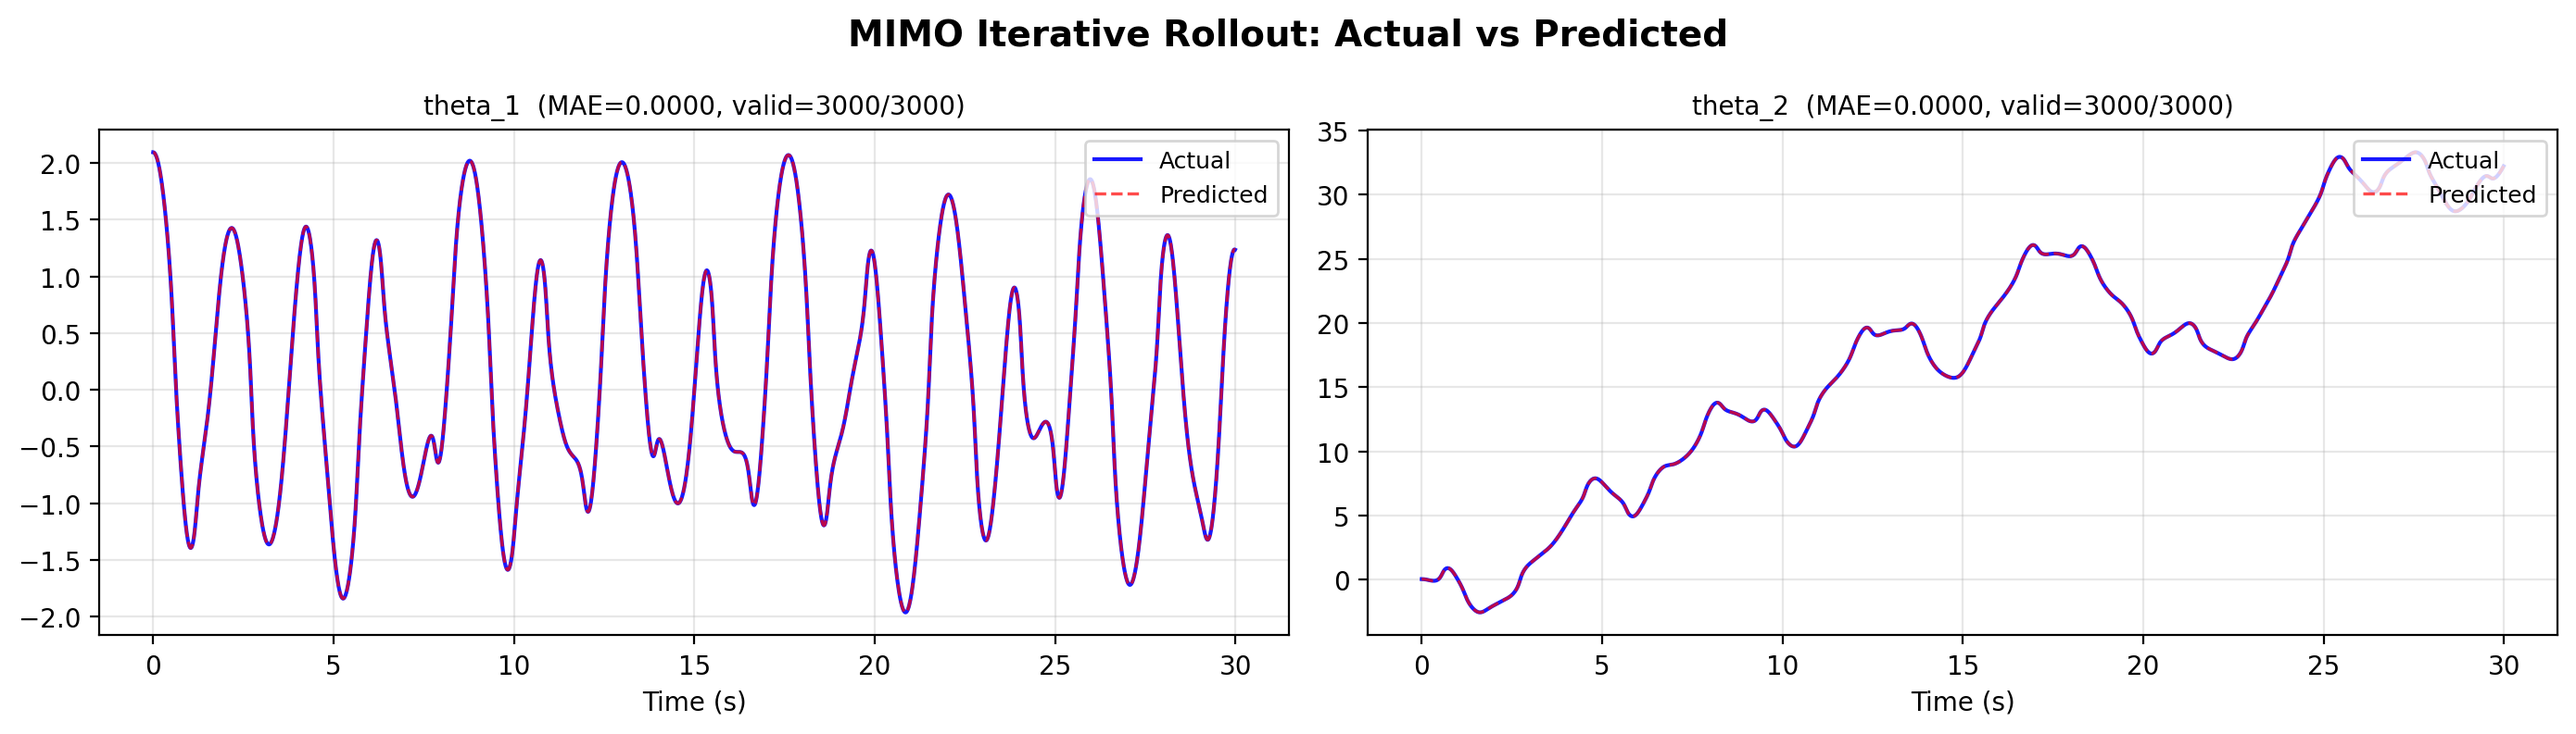
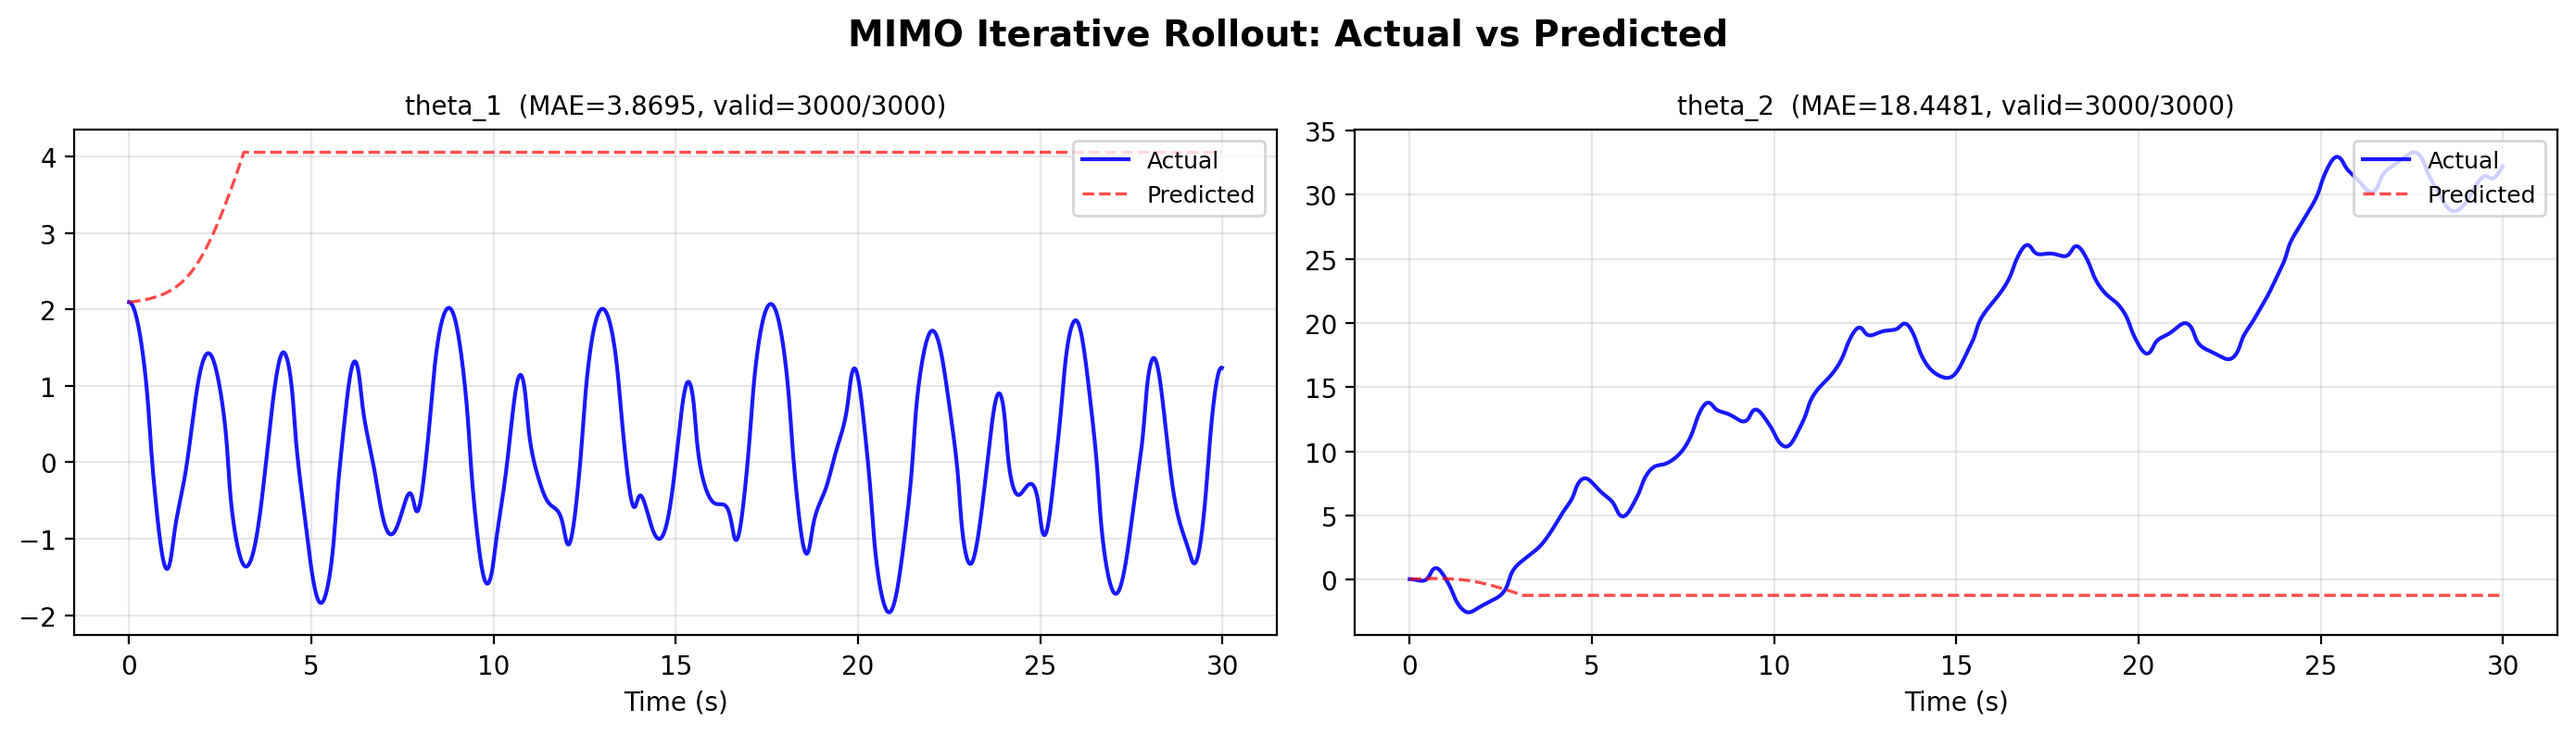
fix(analytical-dynamics): patch the rollout-evaluation bugs at the source
test_double_pendulum.py's run_iterative_prediction was called with the
entire actual test trajectory as its seed (not the initial condition),
so its accuracy check compared real data to a copy of itself, and the
genuinely-new predictions were silently NaN'd by a pandas column-
alignment mismatch between the predicted-delta columns and the full
state's omega columns -- misread by the divergence check as "diverged"
at exactly that boundary. Fixed by seeding with only the initial
condition, restricted to the regressor's own feature columns.

A second, independent bug affected every window_size>1 rollout: the
prediction call sliced the last window_size rows of an already-windowed
feature frame and predicted from all of them, then kept only the
stalest row's prediction while attaching it to the current state.
Fixed by predicting from exactly the single most recent row.

Re-ran the full n=2 test suite against the patch: matches the
independent re-measurement in N3_N5_FUZZY_REGRESSION_REPORT.md exactly
(theta_1 MAE=3.8695, R2=-13.8361), confirming both fixes agree.
Regenerated the dependent figures/GIFs and amended both reports in
place rather than leaving the earlier claim standing.

diff --git a/AnalyticalDynamics/test_double_pendulum.py b/AnalyticalDynamics/test_double_pendulum.py
@@ -192,7 +192,14 @@ def run_iterative_prediction(
                                       ignore_index=True)
         else:
             # Predict DELTAS so we can scale to preserve energy!
-            next_state_delta_df = regressor.predict(running_state[-window_size:])
+            # Exactly one row: for window_size>1, running_state's rows are
+            # already fully-windowed feature vectors (each row already
+            # encodes all window_size historical steps as columns), so only
+            # the single most recent row is a valid input -- slicing multiple
+            # rows here and then taking .iloc[0] of the output would use the
+            # *stalest* row's prediction while attaching it to the current
+            # state below, silently mixing two different points in time.
+            next_state_delta_df = regressor.predict(running_state.iloc[[-1]])
             if window_size == 1:
                 new_state = running_state.iloc[-1,:] + next_state_delta_df
             else:
@@ -632,9 +639,25 @@ class TestDoublePendulumFuzzyPrediction(unittest.TestCase):
             n_steps = len(tst_df) - ws
             print(f"\nWindow size {ws}: running {n_steps} iterative prediction steps...")
 
+            # Seed with ONLY the initial condition, restricted to OUTPUT_FEATURES --
+            # not the whole actual trajectory. Seeding with tst_df (as this used to
+            # do) meant the "prediction" for the first len(tst_df) rows was a
+            # verbatim copy of the ground truth (the accuracy check below only ever
+            # compares up to len(actual_trajectory) rows, all of them copied), and
+            # the omega_1/omega_2 columns tst_df carries but the regressor never
+            # predicts turned every genuinely-new row to NaN via pandas' Series+
+            # DataFrame column-alignment -- which the divergence check then read as
+            # "diverged" at exactly that boundary, not a real numerical blow-up.
+            # window_size=1 needs exactly 1 raw seed row; window_size>1 needs
+            # window_size+1 (get_mimo_df drops the newest possible window since it's
+            # designed for X/y training pairs, so the seed needs one extra row to
+            # yield the single window [0, ws-1] before rollout continues from there).
+            seed_rows = 1 if ws == 1 else ws + 1
+            seed_df = tst_df[OUTPUT_FEATURES].iloc[:seed_rows].reset_index(drop=True)
+
             with time_this(f'iterative-rollout-window{ws}'):
                 predicted_traj = run_iterative_prediction(
-                    mimo_results_by_window[ws]['regressor'], tst_df, n_steps, window_size=ws, verbose=False
+                    mimo_results_by_window[ws]['regressor'], seed_df, n_steps, window_size=ws, verbose=False
                 )
                 predicted_trajectories_by_window[ws] = predicted_traj
 

diff --git a/AnalyticalDynamics/DOUBLE_PENDULUM_REPORT.md b/AnalyticalDynamics/DOUBLE_PENDULUM_REPORT.md
@@ -223,29 +223,37 @@ points). Only $(\theta_1,\theta_2)$ are used as model inputs — velocities are
    fragmenting the training data. This is the kind of bias–variance tradeoff
    worth a follow-up sweep with velocity terms included explicitly.
 
-3. **CORRECTION (superseding what this section originally said).** The
-   "near-perfect iterative rollout" (window=1, R²=1.0000 over the full 30 s)
-   reported here was **not real** — it was a bug in
-   `test_double_pendulum.py`'s `run_iterative_prediction`. That function was
-   called with the *entire actual test trajectory* as its seed, not just the
-   initial condition, and its accuracy check downstream (`n = min(len(actual),
-   len(predicted))`) only ever compared the copied portion against itself.
-   Worse, once real predictions did start, adding the model's predicted-delta
-   `DataFrame` (columns `[theta_1, theta_2]`) to a state row that still carried
-   the unpredicted `omega_1, omega_2` columns produced `NaN` in those columns
-   via pandas' column-alignment rules — which the divergence check reads as
-   "diverged," at exactly the boundary between copied data and real
-   prediction. Net effect: not one genuinely-predicted step was ever actually
-   scored. Full write-up of the bug, the fix, and the honest re-measurement
-   (across n=2, 3, and 5) is in
-   [`N3_N5_FUZZY_REGRESSION_REPORT.md`](N3_N5_FUZZY_REGRESSION_REPORT.md).
+3. **CORRECTION (superseding what this section originally said, and now
+   fixed at the source).** The "near-perfect iterative rollout" (window=1,
+   R²=1.0000 over the full 30 s) originally reported here was **not real** —
+   it was a bug in `test_double_pendulum.py`'s `run_iterative_prediction`
+   call. That function was called with the *entire actual test trajectory*
+   as its seed, not just the initial condition, and its accuracy check
+   downstream (`n = min(len(actual), len(predicted))`) only ever compared
+   the copied portion against itself. Worse, once real predictions did
+   start, adding the model's predicted-delta `DataFrame` (columns
+   `[theta_1, theta_2]`) to a state row that still carried the unpredicted
+   `omega_1, omega_2` columns produced `NaN` in those columns via pandas'
+   column-alignment rules — which the divergence check reads as "diverged,"
+   at exactly the boundary between copied data and real prediction. Net
+   effect: not one genuinely-predicted step was ever actually scored. A
+   second, independent bug in the same function affected every
+   `window_size>1` rollout too: it sliced the last `window_size` *rows* of
+   an already-windowed feature frame and predicted from all of them, then
+   kept only the prediction from the *stalest* row while attaching it to
+   the *current* state — mixing two different points in time. Both are now
+   fixed directly in `test_double_pendulum.py` (not just documented), and
+   the figures above are the regenerated, honest output of that fix. Full
+   write-up of the bug, the fix, and the cross-n comparison (n=2, 3, 5) is
+   in [`N3_N5_FUZZY_REGRESSION_REPORT.md`](N3_N5_FUZZY_REGRESSION_REPORT.md).
    **The real result:** seeded correctly with only $\theta(0)$ and rolled
    forward on its own predictions, this window=1 surrogate's error crosses
-   0.5 rad in about **0.3 s** — chaos wins almost immediately, as it should
-   for a model with no velocity inputs and no physics constraints. The
-   original explanation in this section (interpolation between nearby
-   training trajectories) was a plausible-sounding story for a number that
-   turned out to be measuring nothing.
+   0.5 rad in about **0.3 s** ($\theta_1$ MAE=3.87 rad, R²=−13.8 over the
+   full 30 s) — chaos wins almost immediately, as it should for a model with
+   no velocity inputs and no physics constraints. The original explanation
+   in this section (interpolation between nearby training trajectories) was
+   a plausible-sounding story for a number that turned out to be measuring
+   nothing.
 
 Two GIF animations (`double_pendulum_comparison.gif`,
 `double_pendulum_with_training.gif`) render the same rollout as the actual

diff --git a/AnalyticalDynamics/N3_N5_FUZZY_REGRESSION_REPORT.md b/AnalyticalDynamics/N3_N5_FUZZY_REGRESSION_REPORT.md
@@ -90,6 +90,26 @@ n_steps = len(test_trajectory) - window_size
 predicted = run_iterative_prediction(regressor, seed, feature_names, n_steps, window_size)
 ```
 
+**Update: patched at the source, not just documented.** `test_double_pendulum.py`
+now seeds `run_iterative_prediction` with only the initial condition
+(`tst_df[OUTPUT_FEATURES].iloc[:seed_rows]`, restricted to the regressor's
+own feature columns), fixing Problems 1 and 2 directly. Re-running the full
+n=2 test suite after the patch reproduces this report's numbers exactly
+(θ₁ MAE=3.8695, R²=−13.8361 over the full 30 s — identical to the
+independent measurement in §4 below to 4 decimal places), which is itself a
+useful cross-check that both fixes are equivalent.
+
+While patching the source, a **third problem** turned up in the same
+function, specific to `window_size>1`: the prediction call sliced the last
+`window_size` *rows* of an already-windowed feature frame
+(`running_state[-window_size:]`) and predicted from all of them, then kept
+only `.iloc[0]` — the prediction belonging to the *stalest* of those rows —
+while adding it to `running_state.iloc[-1]`, the *current* state. That mixes
+two different points in time on every step. Fixed by predicting from exactly
+the single most recent row (`running_state.iloc[[-1]]`). This report's own
+`n_pendulum_fuzzy_regression.py` never exercised this path (it only ever
+rolls out at window=1), so n=3/n=5 results below are unaffected by Problem 3.
+
 ## 3. Results: Single-Step and MIMO Cross-Sectional Fit
 
 | Model | n=2 (θ₁, θ₂) | n=3 (θ₁, θ₂, θ₃) | n=5 (θ₁…θ₅) |
